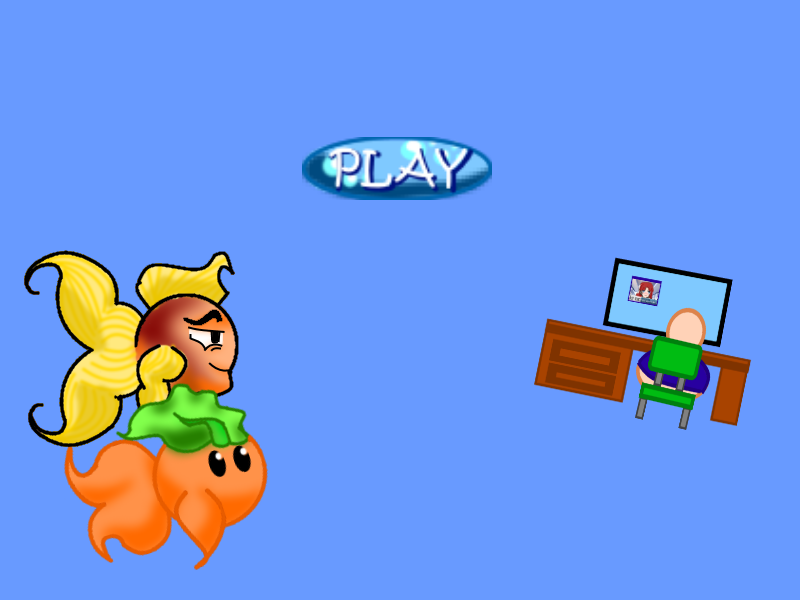
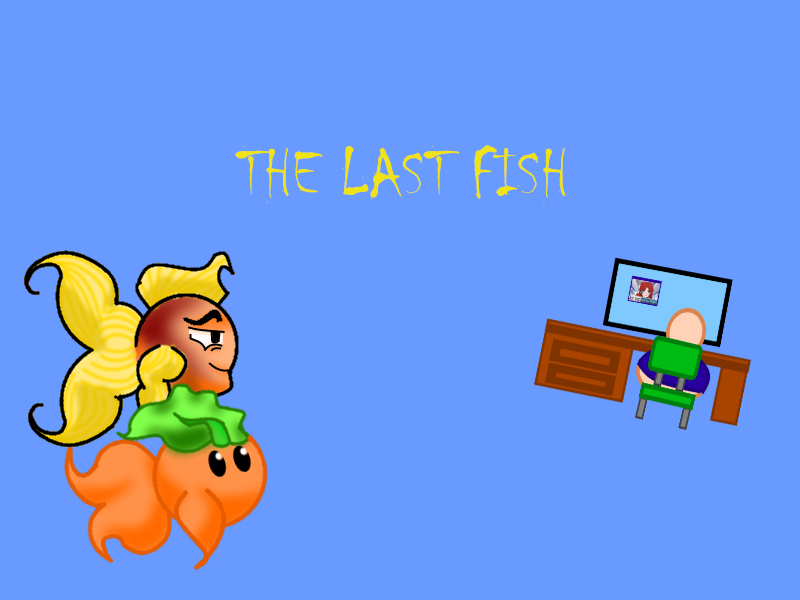
Added: New menu background

Changed region(s): [[0.2812, 0.21, 0.7188, 0.36]]

diff --git a/core/src/com/picklegames/gameStates/Intro.java b/core/src/com/picklegames/gameStates/Intro.java
@@ -32,7 +32,7 @@ public class Intro extends GameState{
 		
 		words = new String[3];
 		words[0] = "Oh no, LudumDare 37 is tommorrow";
-		words[1] = "My owner is going work nonstop";
+		words[1] = "My owner is going to work nonstop";
 		words[2] = "I hope he doesn't forget to feed us";
 		
 		font = new BitmapFont();

diff --git a/desktop/src/com/picklegames/game/desktop/DesktopLauncher.java b/desktop/src/com/picklegames/game/desktop/DesktopLauncher.java
@@ -11,5 +11,6 @@ public class DesktopLauncher {
 		config.width = 1080;
 		config.height = 720;
 		config.resizable = false;
+		config.title = "The Last Fish";
 	}
 }
